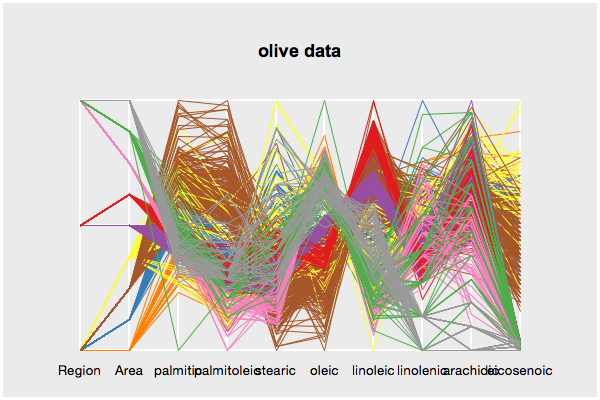
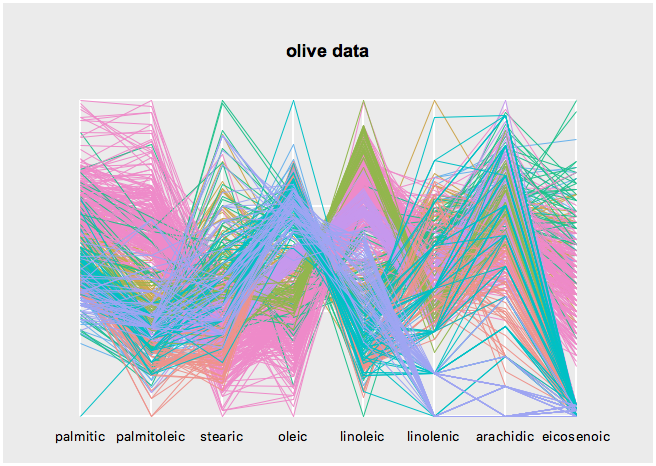
Add the iris and olive data to Tcl package (loon::data::iris and loon::data::olive) in order to make the Tcl learn displays sections simpler on the web manual

diff --git a/R/inst/website/html/learn_Tcl_display_plot.html b/R/inst/website/html/learn_Tcl_display_plot.html
@@ -149,8 +149,16 @@ window.onload = function() {
 <img src="images/display_plot.png" title="loon scatterplot" alt="" />
 
 </div>
-<pre><code>source olive.tcl
+<pre><code>namespace import loon::*
+# extract variables
+dict for {name value} $loon::data::olive {set $name $value}
+
 set p [plot -x $oleic -y $stearic -color $Area -xlabel oleic -ylabel stearic]</code></pre>
+<p>or alternatively</p>
+<pre><code>dict with ::loon::data::olive {
+    set p [loon::plot -x $oleic -y $stearic -color $Area \
+        -xlabel oleic -ylabel stearic]
+}</code></pre>
 <h1 id="scatterplot">Scatterplot</h1>
 <ul>
 <li><p>Get the state names with</p>
@@ -181,7 +189,10 @@ dict get $states background</code></pre>
 <img src="images/point_glyph_primitive_types.png" title="primitive point glyph types" alt="" />
 
 </div>
-<pre><code>source olive.tcl
+<pre><code>package require loon
+namespace import loon::*
+dict for {name value} $loon::data::olive {set $name $value}
+        
 set p [plot -x $oleic -y $stearic -color $Area\
     -xlabel oleic -ylabel stearic]
 
@@ -219,8 +230,11 @@ $p configure -glyph $gt</code></pre>
 </div>
 <h3 id="serialaxes">Serialaxes</h3>
 <p>Serialaxes glyph show either a star or a parralel coordinate glyph for each point.</p>
-<pre><code>## $olivedata does not contain Area and Region
-set gs [$p glyph add serialaxes -data $olivedata -showArea FALSE]
+<pre><code>set oliveacids [dict filter $loon::data::olive script {key value} {
+    return -level 0 [expr {$key ni {Area Region}}]
+}]; puts &quot;filter data&quot;
+
+set gs [$p glyph add serialaxes -data $oliveacids -showArea FALSE]
 $p configure -glyph $gs</code></pre>
 <div class="figure">
 <img src="images/display_plot_glyphs_serialaxes.png" title="serialaxes glyphs: radial axes" alt="" />
@@ -307,7 +321,10 @@ $p configure -glyph $gi</code></pre>
 </div>
 <h3 id="query-and-modify-glyph-states">Query and Modify Glyph States</h3>
 <p>The non-primitive glyphs (or n dimensional glyphs) have states. To demonstrate how to work with glyph states we take the text glyph example from above again:</p>
-<pre><code>source olive.tcl
+<pre><code>package require loon
+namespace import loon::*
+dict for {name value} $loon::data::olive {set $name $value}
+
 set p [plot -x $oleic -y $stearic -color $Area -xlabel oleic -ylabel stearic]
 
 set gt [$p glyph add text -text $Region]
@@ -328,7 +345,8 @@ dict keys $gtstates</code></pre>
 </div>
 <h3 id="relabel-list-and-deleting-glyphs">Relabel, List, and Deleting Glyphs</h3>
 <p>Glyph labels are used in the plot and glyph inspector. You can specify the glyph labels when creating the glyphs:</p>
-<pre><code>source olive.tcl
+<pre><code>dict for {name value} $loon::data::olive {set $name $value}
+
 set p [plot -x $oleic -y $stearic -color $Area -xlabel oleic -ylabel stearic]
 
 set gt [$p glyph add text -text $Region -label Region]

diff --git a/R/inst/website/html/learn_Tcl_display_serialaxes.html b/R/inst/website/html/learn_Tcl_display_serialaxes.html
@@ -101,8 +101,13 @@ window.onload = function() {
 <img src="images/display_serialaxes_star.png" title="loon serialaxes display showing radial coordinates" alt="" />
 
 </div>
-<pre><code>source olive.tcl
-set s [serialaxes -data $olive -color $Area -title &quot;olive data&quot;]</code></pre>
+<pre><code>namespace import loon::*        
+set Area [dict get $loon::data::olive Area]; puts &quot;create Area variable&quot;
+set oliveacids [dict filter $loon::data::olive script {key value} {
+    expr {$key ni {Area Region}}
+}]; puts &quot;filter data&quot;
+
+set s [serialaxes -data $oliveacids -color $Area -title &quot;olive data&quot;]</code></pre>
 <div class="figure">
 <img src="images/display_serialaxes_parallel.png" title="loon serialaxes display showing parallel coordinates" alt="" />
 
@@ -116,9 +121,9 @@ dict keys $states</code></pre></li>
 <li><p>Query a state, say <code>sequence</code>, as follows</p>
 <pre><code>$s cget -sequence</code></pre></li>
 <li><p>Change a state, say again <code>sequence</code>, as follows</p>
-<pre><code>$s configure -sequence [lrange [dict keys $olive] 2 end]</code></pre>
+<pre><code>$s configure -sequence {stearic linoleic palmitic arachidic}</code></pre>
 <div class="figure">
-<img src="images/display_serialaxes_parallel_nofactors.png" title="loon serialaxes display" alt="" />
+<img src="images/display_serialaxes_parallel_sequence.png" title="loon serialaxes display" alt="" />
 
 </div></li>
 <li><p>When creating a plot you may specify any state at plot creation</p>

diff --git a/R/inst/website/html/learn_R_display_serialaxes.html b/R/inst/website/html/learn_R_display_serialaxes.html
@@ -100,8 +100,7 @@ window.onload = function() {
 <img src="images/display_serialaxes_star.png" title="loon serialaxes display showing radial coordinates" alt="" />
 
 </div>
-<pre><code>data(olive)
-s &lt;- l_serialaxes(data=olive, color=olive$Area, title=&quot;olive data&quot;)</code></pre>
+<pre><code>s &lt;- l_serialaxes(data=oliveAcids, color=olive$Area, title=&quot;olive data&quot;)</code></pre>
 <div class="figure">
 <img src="images/display_serialaxes_parallel.png" title="loon serialaxes display showing parallel coordinates" alt="" />
 
@@ -117,9 +116,9 @@ names(states)</code></pre></li>
 <li><p>Change a state, say again <code>sequence</code>, as follows</p>
 <pre><code>s[&#39;sequence&#39;] &lt;- names(olive)[c(2:10)]</code></pre>
 <p>alternatively, and more efficient if you modify more than one state, use</p>
-<pre><code>l_configure(s, sequence=names(olive)[c(2:10)])</code></pre>
+<pre><code>l_configure(s, sequence=c(&#39;stearic&#39;, &#39;linoleic&#39;, &#39;palmitic&#39;, &#39;arachidic&#39;))</code></pre>
 <div class="figure">
-<img src="images/display_serialaxes_parallel_nofactors.png" title="loon serialaxes display" alt="" />
+<img src="images/display_serialaxes_parallel_sequence.png" title="loon serialaxes display" alt="" />
 
 </div></li>
 <li><p>When creating a plot you may specify any state at plot creation</p>

diff --git a/R/inst/website/html/gallery.html b/R/inst/website/html/gallery.html
@@ -35,7 +35,7 @@ document.getElementById("gallery").className += " selected";
 <img src="images/gallery/scatterplot.png" title="Scatterplot" alt="" />
 
 </div>
-<p><img src="images/display_serialaxes_parallel_nofactors.png" title="Parallel Coordinates" alt="" /> <img src="images/display_serialaxes_star.png" title="Stacked Star Glyphs" alt="" /></p>
+<p><img src="images/display_serialaxes_parallel.png" title="Parallel Coordinates" alt="" /> <img src="images/display_serialaxes_star.png" title="Stacked Star Glyphs" alt="" /></p>
 <h2 id="point-glyph-size-mapping">Point glyph size mapping</h2>
 <div class="figure">
 <img src="images/gallery/glyph_sizes.png" title="Point glyph sizes" alt="" />

diff --git a/R/inst/website/html/learn_Tcl_display_hist.html b/R/inst/website/html/learn_Tcl_display_hist.html
@@ -100,8 +100,13 @@ window.onload = function() {
 <img src="images/display_histogram.png" title="loon histogram" alt="" />
 
 </div>
-<pre><code>source olive.tcl
+<pre><code>namespace import loon::*
+# extract variables
+dict for {name value} $loon::data::olive {set $name $value}
+
 set h [histogram -x $oleic -xlabel oleic]</code></pre>
+<p>or alternatively</p>
+<pre><code>set h [loon::histogram -x [dict get $loon::data::olive oleic] -xlabel oleic]</code></pre>
 <h1 id="histogram">Histogram</h1>
 <ul>
 <li><p>Get the state names with</p>

diff --git a/website/md/learn_display_plot.md b/website/md/learn_display_plot.md
@@ -23,9 +23,22 @@ p <- l_plot(x=oleic, y=stearic, color=Area)
 
 <Tcl>
 ~~~
-source olive.tcl
+namespace import loon::*
+# extract variables
+dict for {name value} $loon::data::olive {set $name $value}
+
 set p [plot -x $oleic -y $stearic -color $Area -xlabel oleic -ylabel stearic]
 ~~~
+
+or alternatively
+
+~~~
+dict with ::loon::data::olive {
+	set p [loon::plot -x $oleic -y $stearic -color $Area \
+		-xlabel oleic -ylabel stearic]
+}
+~~~
+
 </Tcl>
 
 
@@ -153,7 +166,10 @@ p['glyph'] <- unlist(glyphmap[as.character(Area)])
 <Tcl>
 
 ~~~
-source olive.tcl
+package require loon
+namespace import loon::*
+dict for {name value} $loon::data::olive {set $name $value}
+		
 set p [plot -x $oleic -y $stearic -color $Area\
 	-xlabel oleic -ylabel stearic]
 
@@ -233,8 +249,11 @@ p['glyph'] <- gs
 <Tcl>
 
 ~~~
-## $olivedata does not contain Area and Region
-set gs [$p glyph add serialaxes -data $olivedata -showArea FALSE]
+set oliveacids [dict filter $loon::data::olive script {key value} {
+    return -level 0 [expr {$key ni {Area Region}}]
+}]; puts "filter data"
+
+set gs [$p glyph add serialaxes -data $oliveacids -showArea FALSE]
 $p configure -glyph $gs
 ~~~
 
@@ -600,7 +619,10 @@ p['glyph'] <- gt
 <Tcl>
 
 ~~~
-source olive.tcl
+package require loon
+namespace import loon::*
+dict for {name value} $loon::data::olive {set $name $value}
+
 set p [plot -x $oleic -y $stearic -color $Area -xlabel oleic -ylabel stearic]
 
 set gt [$p glyph add text -text $Region]
@@ -697,7 +719,8 @@ p['glyph'] <- gt
 <Tcl>
 
 ~~~
-source olive.tcl
+dict for {name value} $loon::data::olive {set $name $value}
+
 set p [plot -x $oleic -y $stearic -color $Area -xlabel oleic -ylabel stearic]
 
 set gt [$p glyph add text -text $Region -label Region]

diff --git a/website/md/learn_display_serialaxes.md b/website/md/learn_display_serialaxes.md
@@ -14,15 +14,19 @@ title: serialaxes display - loon
 
 <R>
 ~~~
-data(olive)
-s <- l_serialaxes(data=olive, color=olive$Area, title="olive data")
+s <- l_serialaxes(data=oliveAcids, color=olive$Area, title="olive data")
 ~~~
 </R>
 
 <Tcl>
 ~~~
-source olive.tcl
-set s [serialaxes -data $olive -color $Area -title "olive data"]
+namespace import loon::*		
+set Area [dict get $loon::data::olive Area]; puts "create Area variable"
+set oliveacids [dict filter $loon::data::olive script {key value} {
+	expr {$key ni {Area Region}}
+}]; puts "filter data"
+
+set s [serialaxes -data $oliveacids -color $Area -title "olive data"]
 ~~~
 </Tcl>
 
@@ -43,6 +47,7 @@ $s configure -axesLayout parallel
 
 
 # Serialaxes
+
 
 * Get the state names with
 
@@ -74,14 +79,14 @@ $s configure -axesLayout parallel
 	alternatively, and more efficient if you modify more than one
     state, use
 	
-		l_configure(s, sequence=names(olive)[c(2:10)])
+		l_configure(s, sequence=c('stearic', 'linoleic', 'palmitic', 'arachidic'))
 </R>
 
 <Tcl>
-	    $s configure -sequence [lrange [dict keys $olive] 2 end]
+	    $s configure -sequence {stearic linoleic palmitic arachidic}
 </Tcl>
 
-	![](images/display_serialaxes_parallel_nofactors.png "loon serialaxes display")
+	![](images/display_serialaxes_parallel_sequence.png "loon serialaxes display")
 	
 
 

diff --git a/website/md/learn_display_hist.md b/website/md/learn_display_hist.md
@@ -21,9 +21,19 @@ h <- l_hist(x=olive$oleic)
 
 <Tcl>
 ~~~
-source olive.tcl
+namespace import loon::*
+# extract variables
+dict for {name value} $loon::data::olive {set $name $value}
+
 set h [histogram -x $oleic -xlabel oleic]
 ~~~
+
+or alternatively
+
+~~~
+set h [loon::histogram -x [dict get $loon::data::olive oleic] -xlabel oleic]
+~~~
+
 </Tcl>
 
 # Histogram

diff --git a/website/md/gallery.md b/website/md/gallery.md
@@ -14,7 +14,7 @@ Here we present some figures that we have created using `loon`.
 ![](images/gallery/scatterplot.png "Scatterplot")
 
 
-![](images/display_serialaxes_parallel_nofactors.png "Parallel Coordinates")
+![](images/display_serialaxes_parallel.png "Parallel Coordinates")
 ![](images/display_serialaxes_star.png "Stacked Star Glyphs")
 
 
